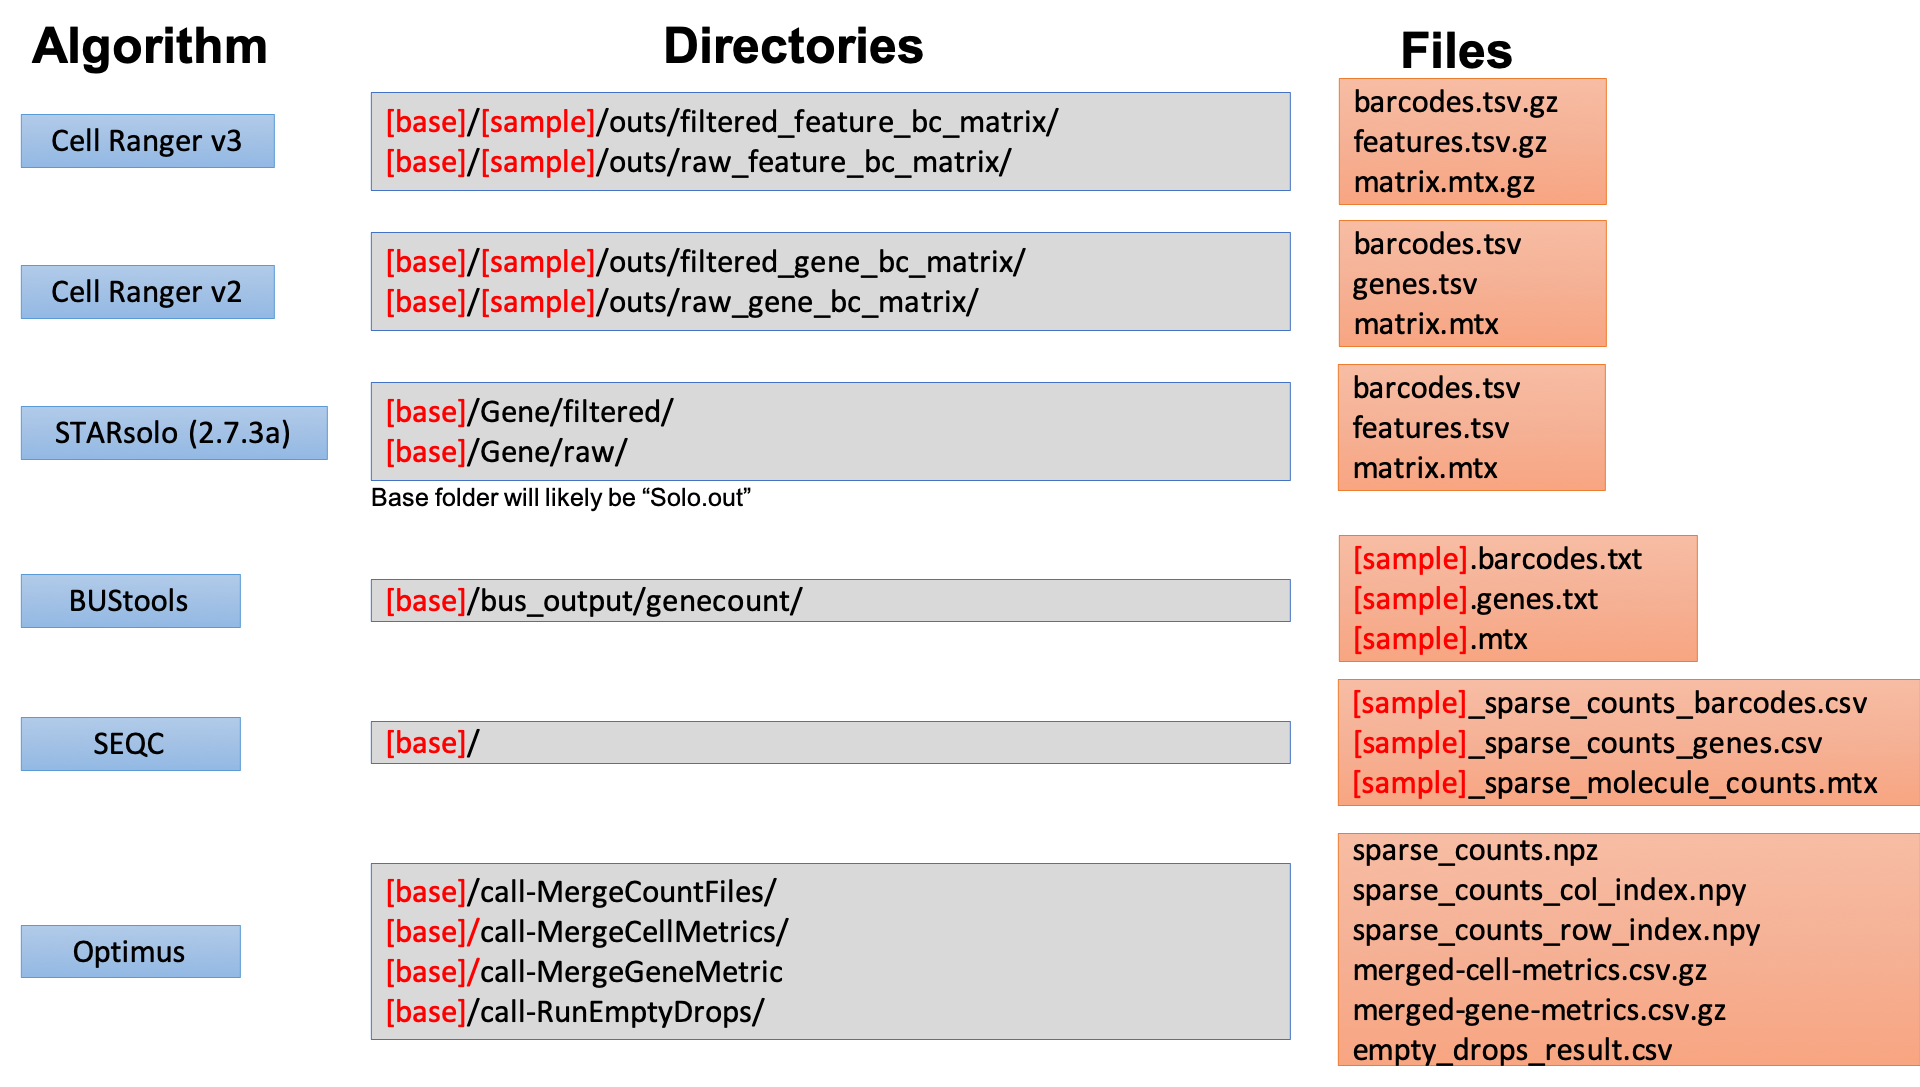
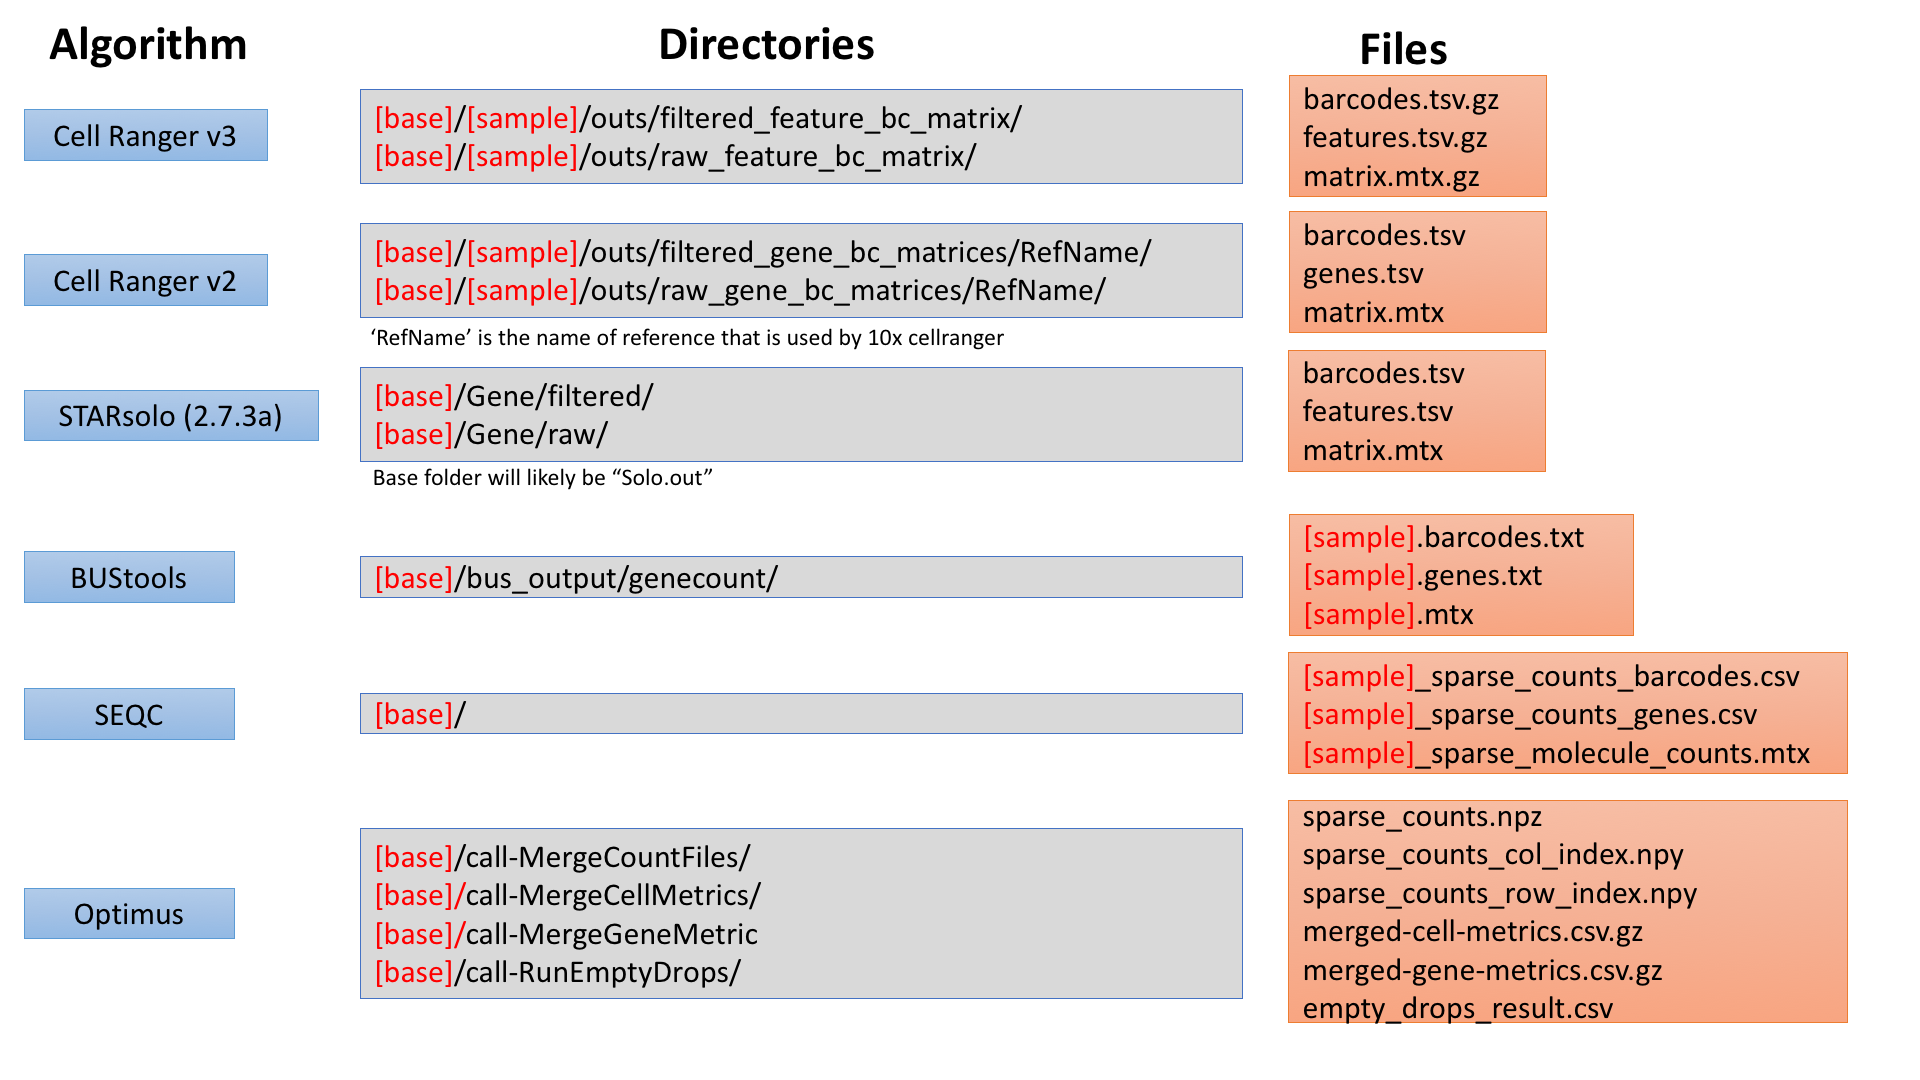
Update SCTK_runQC.R, QC documentation and importCellRangerV2 function

diff --git a/exec/SCTK_runQC_Documentation.md b/exec/SCTK_runQC_Documentation.md
@@ -69,12 +69,62 @@ The arguments are as follows:
 
 -t, --delim. Delimiter used in GMT file. Default "\t".
 
+-r, --reference. The name of genome reference. This is only required for CellRangerV2 data.
+
 ## Analyzing genes sets
 
 Quantifying the level of gene sets can be useful quality control. For example, the percentage of counts from mitochondrial genes can be an indicator or cell stress or death. 
 
 Users can pass a [GMT](http://software.broadinstitute.org/cancer/software/gsea/wiki/index.php/Data_formats) file to the pipeline with one row for each gene set. The first column should be the name of the gene set (e.g. mito). 
 The second column for each gene set in the GMT file (i.e. the description) should contain the location of where to look for the matching IDs in the data. If set to 'rownames', then the gene set IDs will be matched with the row IDs of the data matrix. If a character string or an integer index is supplied, then gene set IDs will be matched to IDs the that column of feature table.
+
+## Docker and Singularity Images
+
+singleCellTK is available to use with both Docker and Singularity. The tool usage is similar to that of the command line interface. Noted that the transcriptome data and GMT file needed to be accessible to the container via mounted volume. 
+
+### Docker
+
+singleCellTK docker image is available from [Docker Hub](https://hub.docker.com/r/rz2333/sctk_0.1.1). If you have not used docker before, you can follow the instruction to install and set up docker in [Windows](https://docs.docker.com/docker-for-windows/), [Mac](https://docs.docker.com/docker-for-mac/) or [Linux](https://runnable.com/docker/install-docker-on-linux). 
+
+The Docker image can be obtained by running: 
+```
+docker pull rz2333/sctk_0.1.1:firsttry
+```
+
+To perform quality control with singleCellTK docker, use the following code:
+
+```
+docker run --rm -v /path/to/data:/SCTK_docker \
+-it sctk_0.1.1 \
+-b /SCTK_docker/cellranger \
+-p CellRangerV3 \
+-s pbmc_100x100 \
+-o /SCTK_docker/result/tenx_v3_pbmc \
+-g /SCTK_docker/mitochondrial_human_symbol.gmt
+```
+
+The container could not access files in your local host system. That's why we need -v argument is to mount your data directory (/path/to/data) to container (/SCTK_docker). /SCTK_docker is not visible in your host system but container could read and write files in that directory. That's why the path of all the input files starts with /SCTK_docker but not /path/to/data. To learn more about volumes, please check out [this post](https://docs.docker.com/storage/volumes/).
+
+### Singularity
+
+The Singulatiry image can easily be built using Docker Hub as a source:
+
+```
+singularity build sctk-0.1.1.sif docker://rz2333/sctk_0.1.1:firsttry
+```
+
+The usage of singleCellTK Singularity image is very similar to that of Docker. In Singularity 3.0+, the mount volume is [automatically overlaid](https://singularity.lbl.gov/docs-mount). However, you can use argument --bind/-B to specify your own mount volume. The example is shown as below:
+
+```
+singularity run sctk-0.1.1.sif \
+-b ./cellranger \
+-p CellRangerV3 \
+-s pbmc_100x100 \
+-o ./result/tenx_v3_pbmc \
+-g ./mitochondrial_human_symbol.gmt
+```
+
+The code above assumed that the dataset is in your current directory, which is automatically mounted by Singularity. If you run Singularity image on BU SCC，it's recommended to re-set the home directory to mount. Otherwise, the container will load libraries in the SCC shared libraries, which might cause some conflicts. You can point to some "sanitized home" using argument [-H/--home](https://singularity.lbl.gov/faq#solution-1-specify-the-home-to-mount).
 
 ## Documentation of tools that are currently available within the pipeline:
 #### Empty droplet detection:
@@ -83,6 +133,8 @@ The second column for each gene set in the GMT file (i.e. the description) shoul
 #### Doublet Detection
 * [doubletCells](https://rdrr.io/github/MarioniLab/scran/man/doubletCells.html) from the package [scran](http://bioconductor.org/packages/release/bioc/html/scran.html)
 * [cxds](https://rdrr.io/bioc/scds/man/cxds.html), [bcds](https://rdrr.io/bioc/scds/man/bcds.html), and [cxds_bcds_hybrid](https://rdrr.io/bioc/scds/man/cxds_bcds_hybrid.html) from the package [scds](http://bioconductor.org/packages/release/bioc/html/scds.html)
+* [doubletFinder](https://rdrr.io/github/chris-mcginnis-ucsf/DoubletFinder/man/doubletFinder.html) from the package [DoubletFinder](https://github.com/chris-mcginnis-ucsf/DoubletFinder)
+* [Scrublet](https://bioconda.github.io/recipes/scrublet/README.html) from the package [scrublet](https://github.com/allonkleinlab/scrublet)
 
 #### Ambient RNA detection
 * [decontX](https://rdrr.io/bioc/celda/man/decontX.html) from the package [celda](https://bioconductor.org/packages/release/bioc/html/celda.html)
